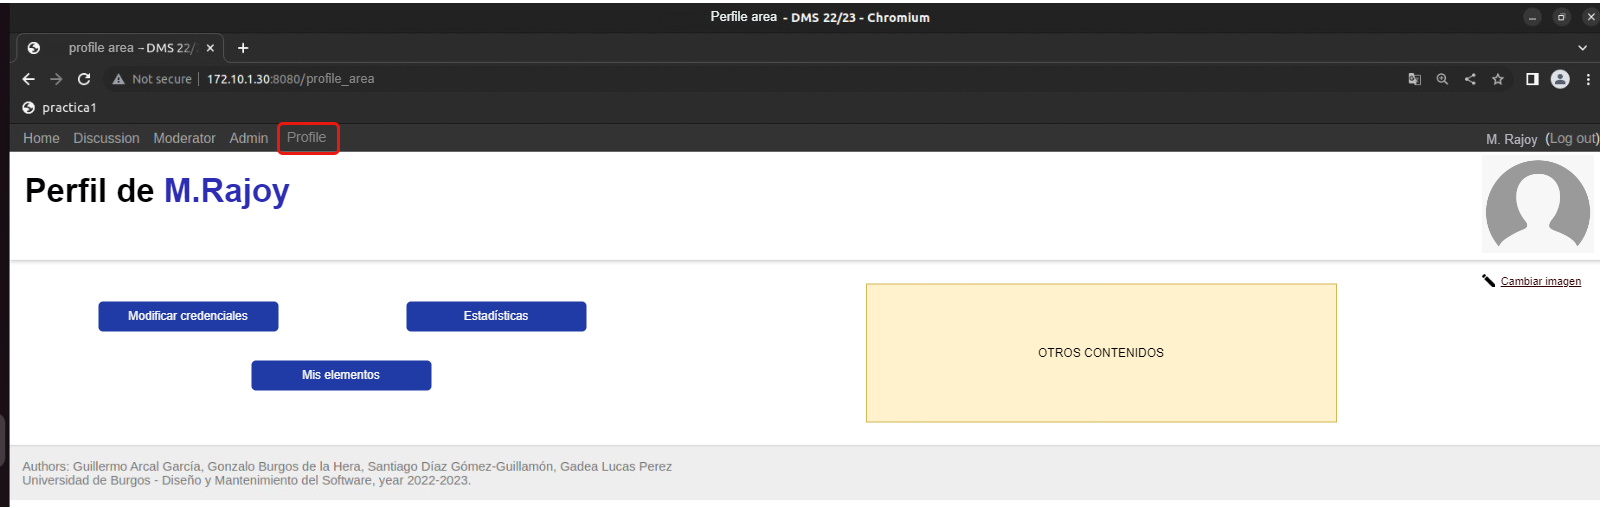
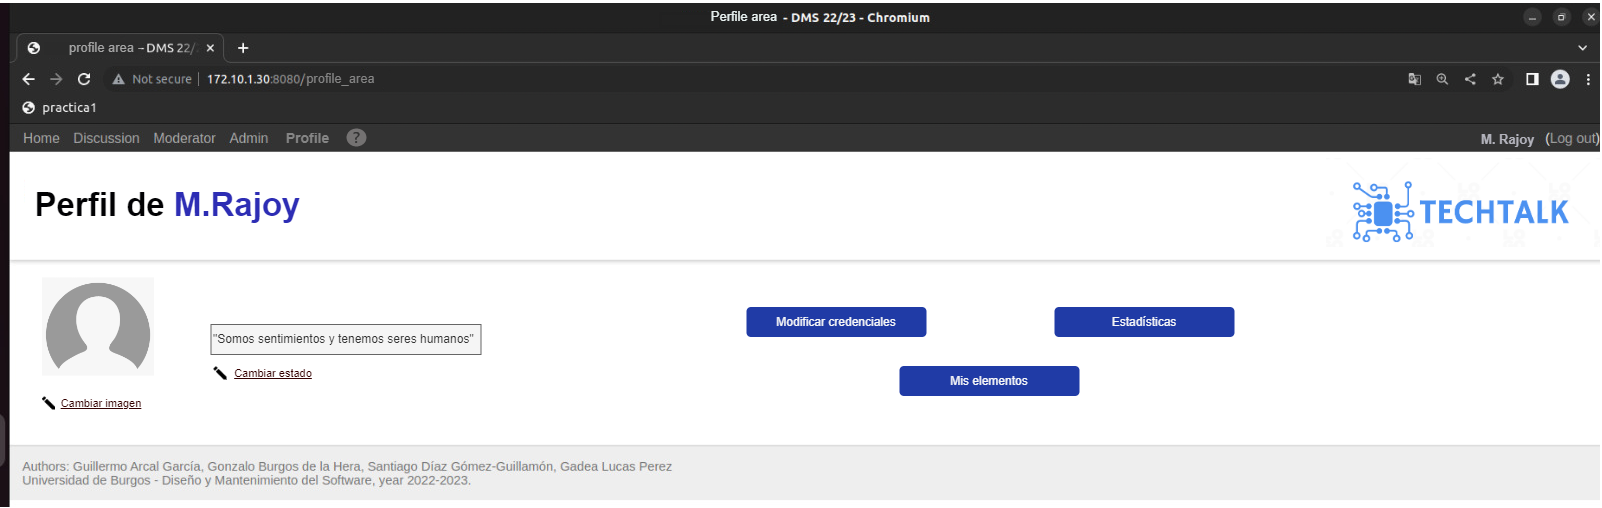
avances memoria

diff --git a/memoria/Memoria.md b/memoria/Memoria.md
@@ -169,7 +169,11 @@ Este rótulo se situará en la parte superior derecha de las distintas interface
 	- Además, se pretende personalizar aún más la aplicación con opciones multilenguaje. Es decir, se quiere internacionalizar la aplicación.
 
   <br/>
+  
+  A continuación se muestra un ejemplo de cómo podría ser la interfaz del área personal de un usuario cualquiera.
+
   <img src="img/interfaz.png" width="10000" />
+
   <br/>
 
 * Por otro lado, incluir en el registro de los usuarios un campo con un correo electrónico. De esta forma, se incrementa la seguridad con el sistema de doble confirmación y con el aviso de nuevos accesos desde dispositivos no registrados previamente. También evitará el posible registro indebido de _bots_ en el sistema o multicuentas masivas. Sin embargo, el punto principal de esta medida es el envío de notificaciones cuando otro usuario interactúe con alguna de las preguntas, respuestas o comentarios realizados por el usuario en cuestión. Para dejar esta idea más clara se ha decidido diseñar un correo de prueba que se adjunta a continuación: 
